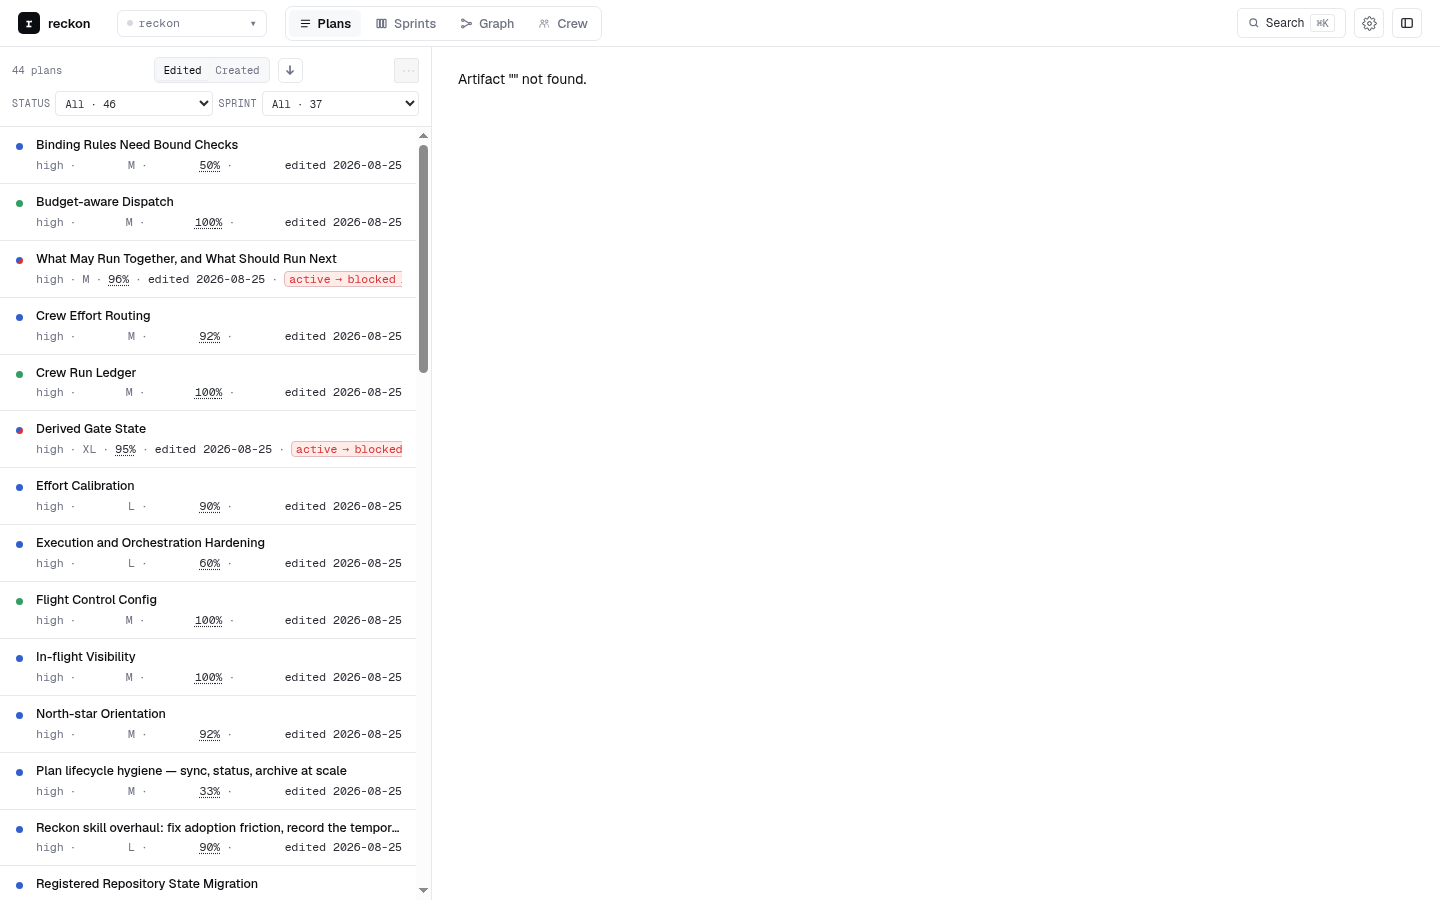
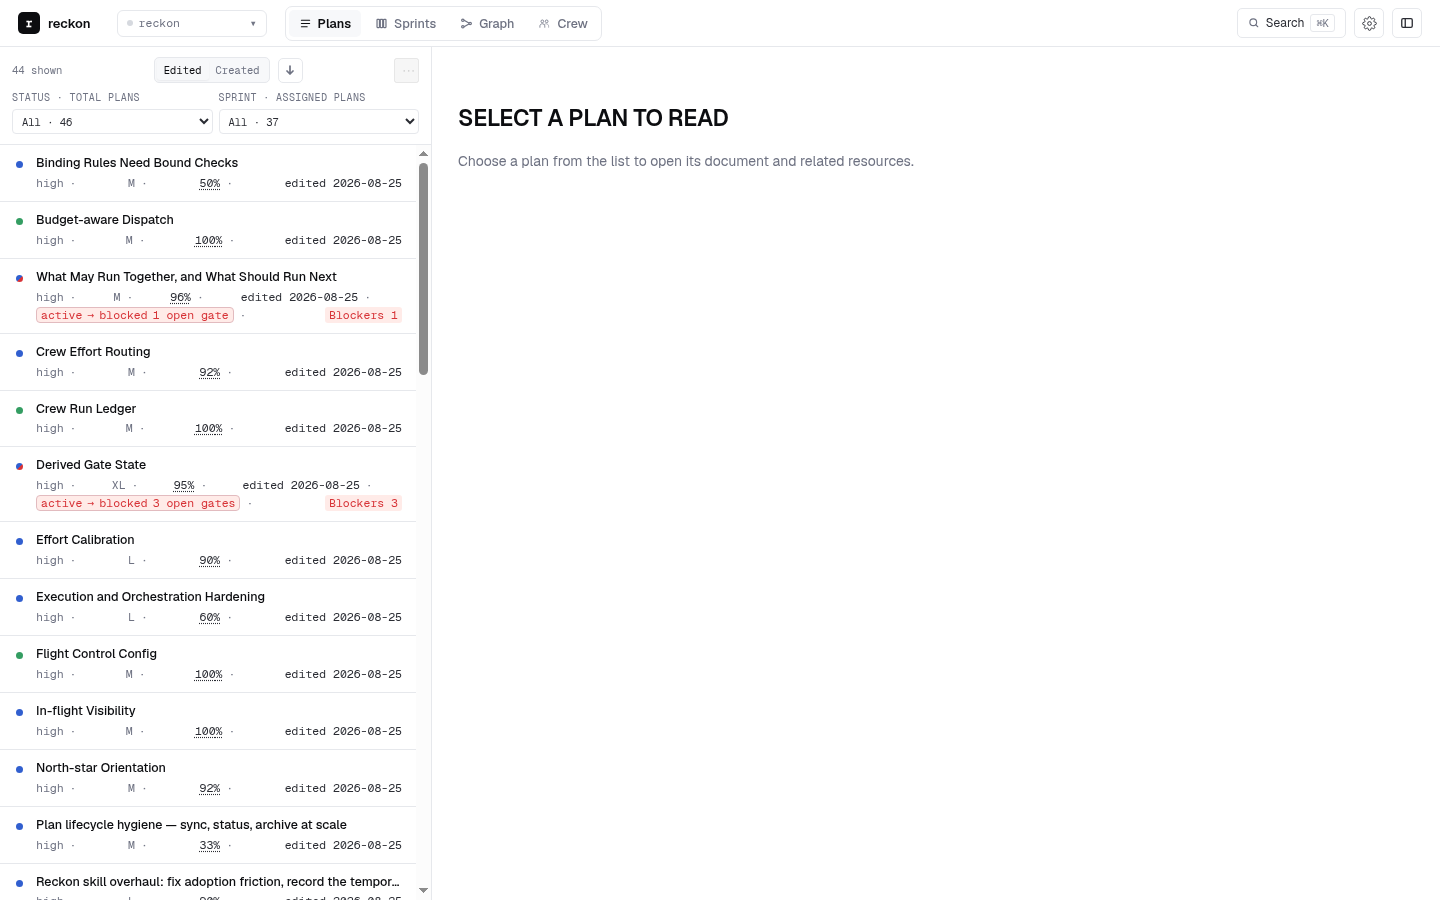
fix(ui): keep plan list signals legible
Compose row metadata from present values so separators never dangle and status transitions can wrap without clipping. Label count populations explicitly, provide a deliberate empty reader, and refresh the rendered captures at each supported width.

diff --git a/docs/ui/shell.jsx b/docs/ui/shell.jsx
@@ -268,7 +268,7 @@ function ListFilterControls({ filters, setFilters, onClearFilters }) {
   return (
     <div className="r-list-filter-controls" aria-label="Plan filters">
       <label className="r-list-filter">
-        <span>Status</span>
+        <span>Status · total plans</span>
         <select aria-label="Filter plans by status" value={(filters.status || [])[0] || ""} onChange={event => select("status", event.target.value)}>
           <option value="">All · {actionable.length}</option>
           {statusList.map(status => {
@@ -280,7 +280,7 @@ function ListFilterControls({ filters, setFilters, onClearFilters }) {
       </label>
       {sprintsWithPlans.length > 0 && (
         <label className="r-list-filter">
-          <span>Sprint</span>
+          <span>Sprint · assigned plans</span>
           <select aria-label="Filter plans by sprint" value={(filters.sprint || [])[0] || ""} onChange={event => select("sprint", event.target.value)}>
             <option value="">All · {actionable.filter(plan => plan.sprint).length}</option>
             {sprintsWithPlans.map(sprint => {
@@ -451,7 +451,7 @@ function ListCol({ route, onNav, onSelectPlan, items, sortBy, setSortBy, sortDir
   return (
     <div className="r-list">
       <div className="r-sort-bar">
-        <span className="r-sort-n">{sorted.length} plans</span>
+        <span className="r-sort-n">{sorted.length} shown</span>
         <div className="r-sort-segments" aria-label="Sort plans by">
           {SORT_OPTIONS.map(option => (
             <button type="button" key={option.value} className={sortBy === option.value ? "active" : ""} aria-pressed={sortBy === option.value} onClick={() => setSortBy(option.value)}>
@@ -503,6 +503,18 @@ function ListCol({ route, onNav, onSelectPlan, items, sortBy, setSortBy, sortDir
         const gates = openGateCount(p);
         const edited = p.last || null;
         const identity = [p.roi, p.effort].filter(value => value && value !== "—");
+        const editedValue = <>{edited && <span className="date" title={`Edited ${edited}`}>edited {edited}</span>}</>;
+        const metadata = [
+          ...identity.map((value, index) => <span key={`identity-${value}-${index}`}>{value}</span>),
+          <button key="implementation" className="r-compact-signal pct" title={`${Math.round((p.impl || 0) * 100)} percent complete; open implementation`} aria-label={`${p.title}: ${Math.round((p.impl || 0) * 100)} percent complete`} onClick={(event) => selectPlanSection(event, onSelectPlan, navKey, "implementation")}>{Math.round((p.impl || 0) * 100)}%</button>,
+          edited ? editedValue : null,
+          authored !== effective ? (
+            <button key="transition" className="r-status-transition" title={`Authored ${authored}; effective ${effective}; ${gates} open gates`} aria-label={`${p.title}: ${authored} to ${effective}, ${gates} open gates`} onClick={(event) => selectPlanSection(event, onSelectPlan, navKey, "gate-state-heading")}>
+              <span>{authored}</span><span aria-hidden="true">→</span><span>{effective}</span><span>{gates} open {gates === 1 ? "gate" : "gates"}</span>
+            </button>
+          ) : null,
+          (p.blockers || 0) > 0 ? <button key="blockers" className="sig blk" title={`${p.blockers} blockers; open blockers`} aria-label={`${p.title}: ${p.blockers} blockers`} onClick={(event) => selectPlanSection(event, onSelectPlan, navKey, "blockers")}>Blockers {p.blockers}</button> : null,
+        ].filter(Boolean);
         return (
           <div
             key={navKey}
@@ -513,17 +525,12 @@ function ListCol({ route, onNav, onSelectPlan, items, sortBy, setSortBy, sortDir
             <div>
               <div className="t" title={p.title}>{p.title}</div>
               <div className="meta">
-                {identity.map((value, index) => <React.Fragment key={`${value}-${index}`}><span>{value}</span><span className="sp">·</span></React.Fragment>)}
-                <button className="r-compact-signal pct" title={`${Math.round((p.impl || 0) * 100)} percent complete; open implementation`} aria-label={`${p.title}: ${Math.round((p.impl || 0) * 100)} percent complete`} onClick={(event) => selectPlanSection(event, onSelectPlan, navKey, "implementation")}>{Math.round((p.impl || 0) * 100)}%</button>
-                {edited && <><span className="sp">·</span><span className="date" title={`Edited ${edited}`}>edited {edited}</span></>}
-                {authored !== effective && <span className="sp">·</span>}
-                {authored !== effective ? (
-                  <button className="r-status-transition" title={`Authored ${authored}; effective ${effective}; ${gates} open gates`} aria-label={`${p.title}: ${authored} to ${effective}, ${gates} open gates`} onClick={(event) => selectPlanSection(event, onSelectPlan, navKey, "gate-state-heading")}>
-                  <span>{authored}</span><span aria-hidden="true">→</span><span>{effective}</span><span>{gates} open {gates === 1 ? "gate" : "gates"}</span>
-                  </button>
-                ) : null}
-                {(p.blockers || 0) > 0 && <span className="sp">·</span>}
-                {(p.blockers || 0) > 0 && <button className="sig blk" title={`${p.blockers} blockers; open blockers`} aria-label={`${p.title}: ${p.blockers} blockers`} onClick={(event) => selectPlanSection(event, onSelectPlan, navKey, "blockers")}>Blockers {p.blockers}</button>}
+                {metadata.map((item, index) => (
+                  <React.Fragment key={`metadata-${index}`}>
+                    {index > 0 && <span className="sp" aria-hidden="true">·</span>}
+                    {item}
+                  </React.Fragment>
+                ))}
               </div>
             </div>
           </div>

diff --git a/docs/ui/plans.css b/docs/ui/plans.css
@@ -54,7 +54,7 @@
 .r-list-filter {
   display: grid;
   flex: 1;
-  grid-template-columns: auto minmax(0, 1fr);
+  grid-template-rows: auto 25px;
   align-items: center;
   gap: 5px;
   min-width: 0;
@@ -62,6 +62,12 @@
   font: 10px var(--mono);
   letter-spacing: .04em;
   text-transform: uppercase;
+}
+
+.r-list-filter > span {
+  overflow: hidden;
+  text-overflow: ellipsis;
+  white-space: nowrap;
 }
 
 .r-list-filter select {
@@ -140,11 +146,12 @@
 
 .r-plans-view .r-row .meta {
   align-items: center;
-  flex-wrap: nowrap;
-  height: 16px;
+  flex-wrap: wrap;
+  min-height: 16px;
   line-height: 16px;
   white-space: nowrap;
-  overflow: hidden;
+  overflow: visible;
+  row-gap: 2px;
 }
 
 .r-sort-n {
@@ -229,6 +236,14 @@
   margin: 0;
   padding: 0 4px;
   line-height: 14px;
+}
+
+.r-reader-empty-state {
+  color: var(--muted);
+}
+
+.r-reader-empty-state h2 {
+  color: var(--ink);
 }
 
 .r-row .dot.transition {

diff --git a/docs/ui/plan.jsx b/docs/ui/plan.jsx
@@ -234,6 +234,14 @@ function ReaderAttachmentBars({ groups, selectedKey, onNav }) {
 function Plan({ slug, onNav, attachmentGroups, focusMode = false, onToggleFocus, focusPosition, onPage }) {
   const M = window.STATE;
   if (!M) return null;
+  if (!slug) {
+    return (
+      <div className="r-page r-reader-empty-state">
+        <h2>Select a plan to read</h2>
+        <p>Choose a plan from the list to open its document and related resources.</p>
+      </div>
+    );
+  }
   const PG = M.plans[slug];
   if (!PG) return <div className="r-page">Artifact "{slug}" not found.</div>;
 

diff --git a/tests/test_spa_plans_geometry.py b/tests/test_spa_plans_geometry.py
@@ -281,8 +281,9 @@ def test_rendered_header_status_and_sprint_filters_reduce_the_plan_list(
     assert result["baseline"] > result["sprintCount"] > 0, result
 
 
-def test_plan_row_metadata_is_one_bounded_line_in_the_rendered_list(
-    tmp_path: Path,
+@pytest.mark.parametrize("viewport_width", [1280, 1440, 1920])
+def test_rendered_plan_rows_and_controls_are_legible(
+    tmp_path: Path, viewport_width: int
 ) -> None:
     browser = installed_browser()
     if browser is None:
@@ -294,43 +295,60 @@ def test_plan_row_metadata_is_one_bounded_line_in_the_rendered_list(
     probe = r"""(() => {
       const list = document.querySelector(".r-list-body");
       const rows = [...list.querySelectorAll(":scope > .r-row")];
-      const metadata = rows.map(row => row.querySelector(":scope > div > .meta"));
-      const metadataGeometry = metadata.map(element => {
-        const style = getComputedStyle(element);
+      const transitions = [...list.querySelectorAll(".r-status-transition")];
+      const clippedTransitions = transitions.map(element => {
+        const row = element.closest(".r-row").getBoundingClientRect();
+        const rect = element.getBoundingClientRect();
         return {
-          height: element.getBoundingClientRect().height,
-          lineHeight: Number.parseFloat(style.lineHeight),
+          clippedContent: element.scrollWidth > element.clientWidth,
+          outsideRow: rect.left < row.left || rect.right > row.right,
         };
-      });
-      const rowHeights = rows.map(row => row.getBoundingClientRect().height);
-      const northStarPhrases = (window.STATE?.north_stars || [])
-        .flatMap(direction => [direction.name, direction.statement])
-        .filter(Boolean);
-      const listText = list.textContent;
+      }).filter(result => result.clippedContent || result.outsideRow).length;
+      const trailingSeparators = rows.filter(row =>
+        row.querySelector(":scope > div > .meta")?.lastElementChild?.classList.contains("sp")
+      ).length;
+      const shown = document.querySelector(".r-sort-n")?.textContent.trim() || "";
+      const statusControl = document.querySelector('[aria-label="Filter plans by status"]');
+      const sprintControl = document.querySelector('[aria-label="Filter plans by sprint"]');
+      const status = statusControl?.selectedOptions[0]?.textContent.trim() || "";
+      const sprint = sprintControl?.selectedOptions[0]?.textContent.trim() || "";
+      const emptyState = document.querySelector(".r-reader-empty-state");
       return {
-        metadataCount: metadata.length,
-        metadataGeometry,
-        rowHeights,
-        rowHeightRange: Math.max(...rowHeights) - Math.min(...rowHeights),
-        northStarMatches: northStarPhrases.filter(phrase => listText.includes(phrase)),
+        transitionCount: transitions.length,
+        clippedTransitions,
+        trailingSeparators,
+        counts: {
+          shown,
+          status,
+          sprint,
+          statusLabel: statusControl?.closest("label")?.querySelector("span")?.textContent.trim() || "",
+          sprintLabel: sprintControl?.closest("label")?.querySelector("span")?.textContent.trim() || "",
+        },
+        emptyState: emptyState?.textContent.trim() || "",
+        notFoundOccurrences: (document.body.textContent.toLowerCase().match(/not found/g) || []).length,
       };
     })()"""
 
     with served_spa(tmp_path, browser, route="#plans") as context:
         geometry = context.run_probe(
             probe,
-            viewport=(1374, 900),
-            ready_expression='Boolean(document.querySelector(".r-list-body > .r-row .meta"))',
+            viewport=(viewport_width, 900),
+            ready_expression=(
+                'Boolean(document.querySelector(".r-list-body > .r-row .meta") '
+                '&& document.querySelector(".r-reader-empty-state"))'
+            ),
         )
 
-    print(json.dumps(geometry, sort_keys=True))
-    assert geometry["metadataCount"] >= 10
-    assert all(
-        item["height"] == pytest.approx(item["lineHeight"], abs=0.5)
-        for item in geometry["metadataGeometry"]
-    )
-    assert geometry["northStarMatches"] == []
-    assert geometry["rowHeightRange"] < 20
+    assert geometry["transitionCount"] > 0, geometry
+    assert geometry["clippedTransitions"] == 0, geometry
+    assert geometry["trailingSeparators"] == 0, geometry
+    assert geometry["counts"]["shown"].endswith(" shown"), geometry
+    assert geometry["counts"]["statusLabel"] == "Status · total plans", geometry
+    assert geometry["counts"]["sprintLabel"] == "Sprint · assigned plans", geometry
+    assert geometry["counts"]["status"].startswith("All · "), geometry
+    assert geometry["counts"]["sprint"].startswith("All · "), geometry
+    assert "Select a plan to read" in geometry["emptyState"], geometry
+    assert geometry["notFoundOccurrences"] == 0, geometry
 
 
 def test_project_visibility_defaults_to_all_and_respects_stored_hiding() -> None:
